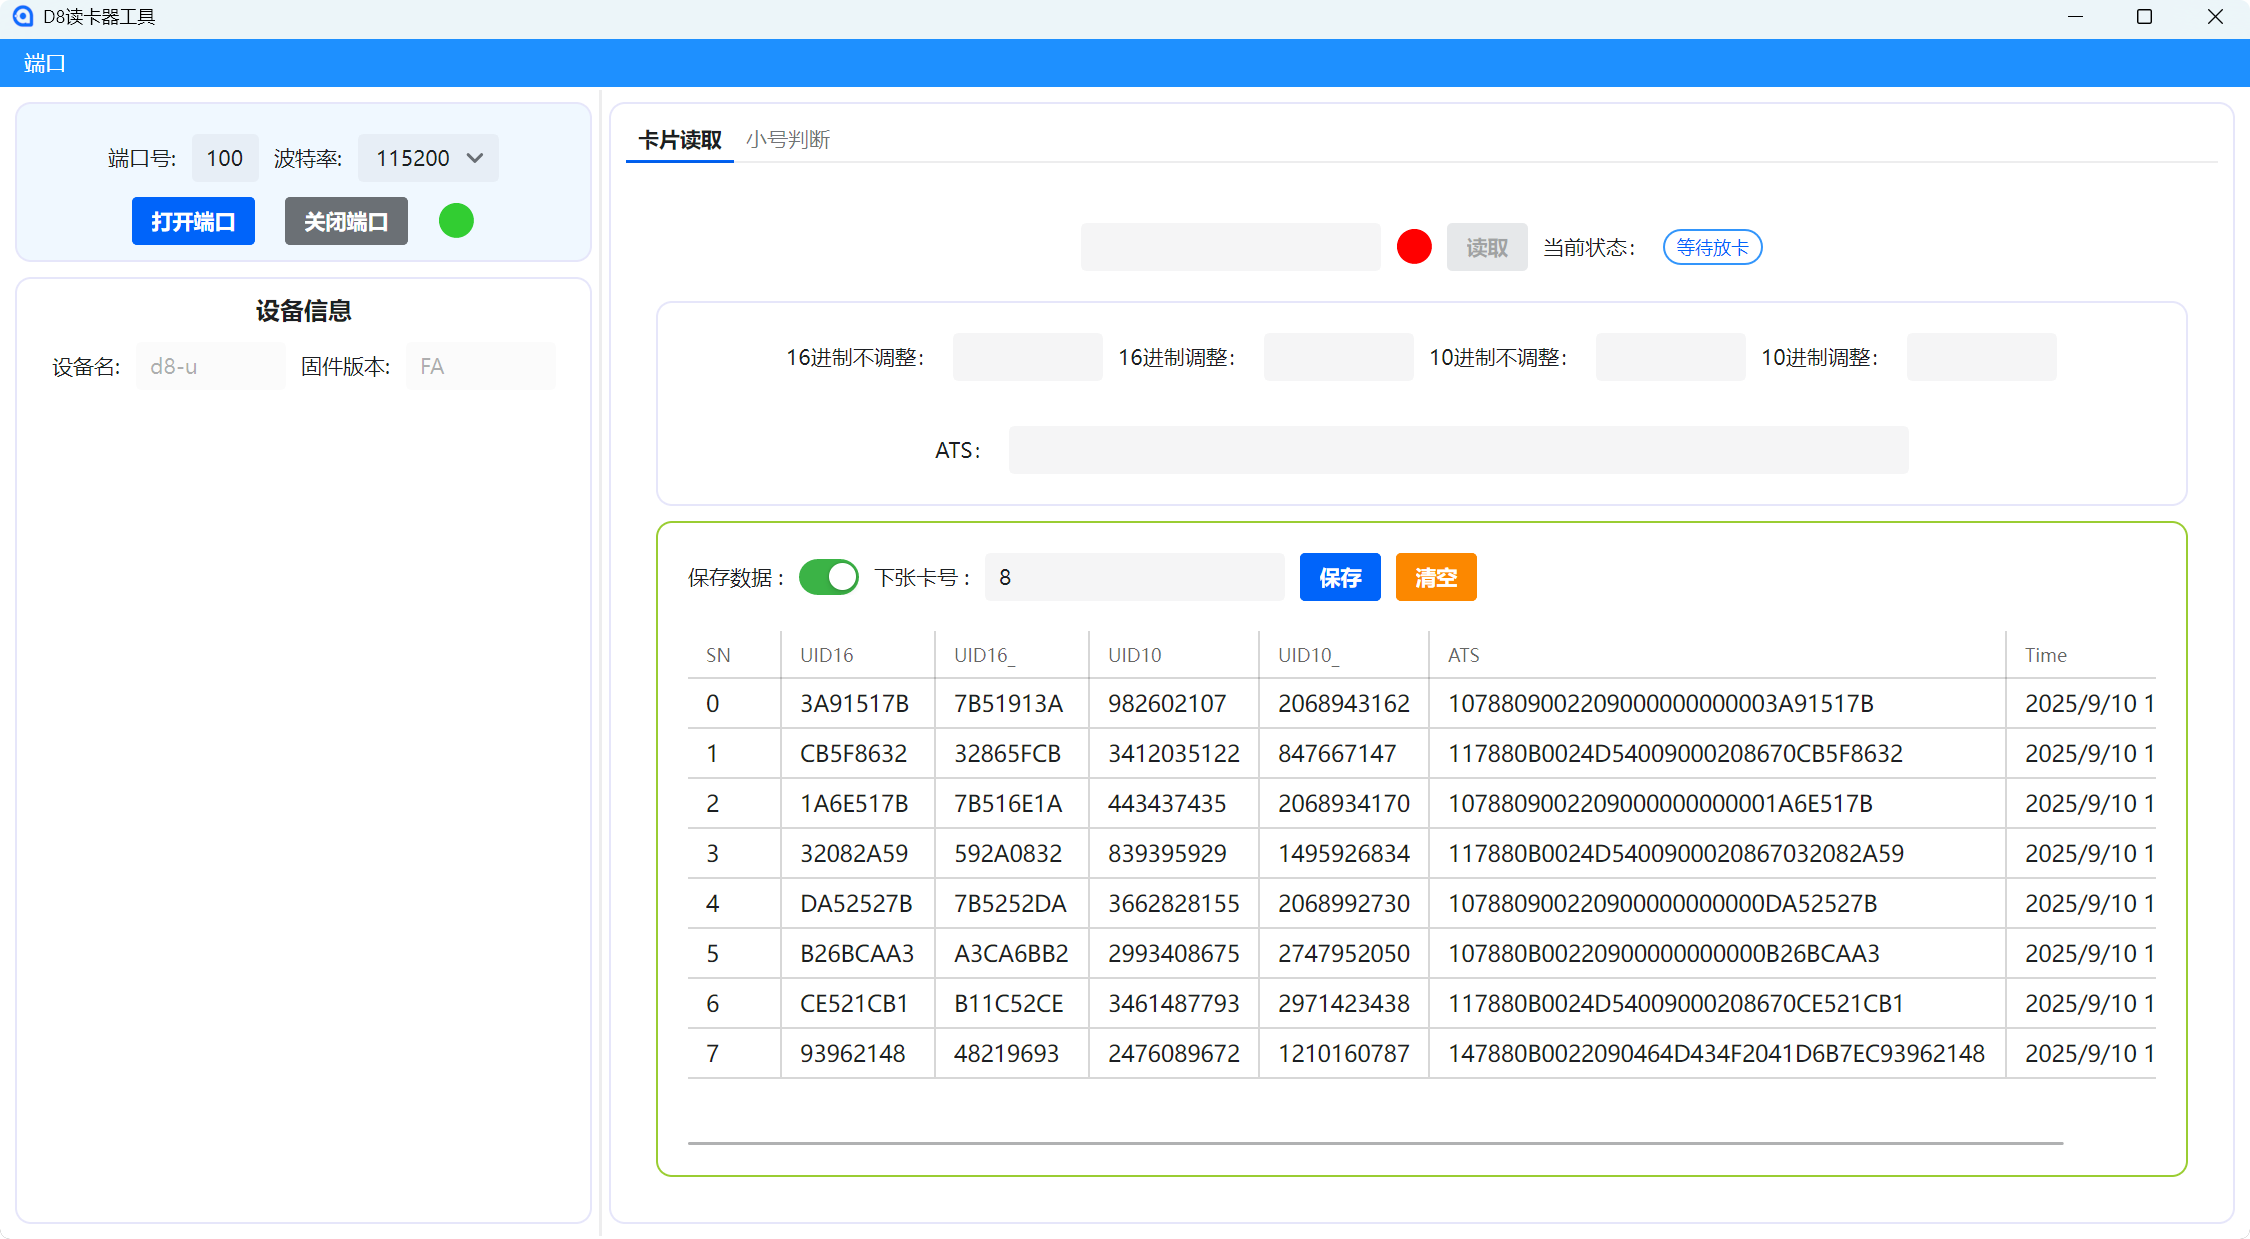
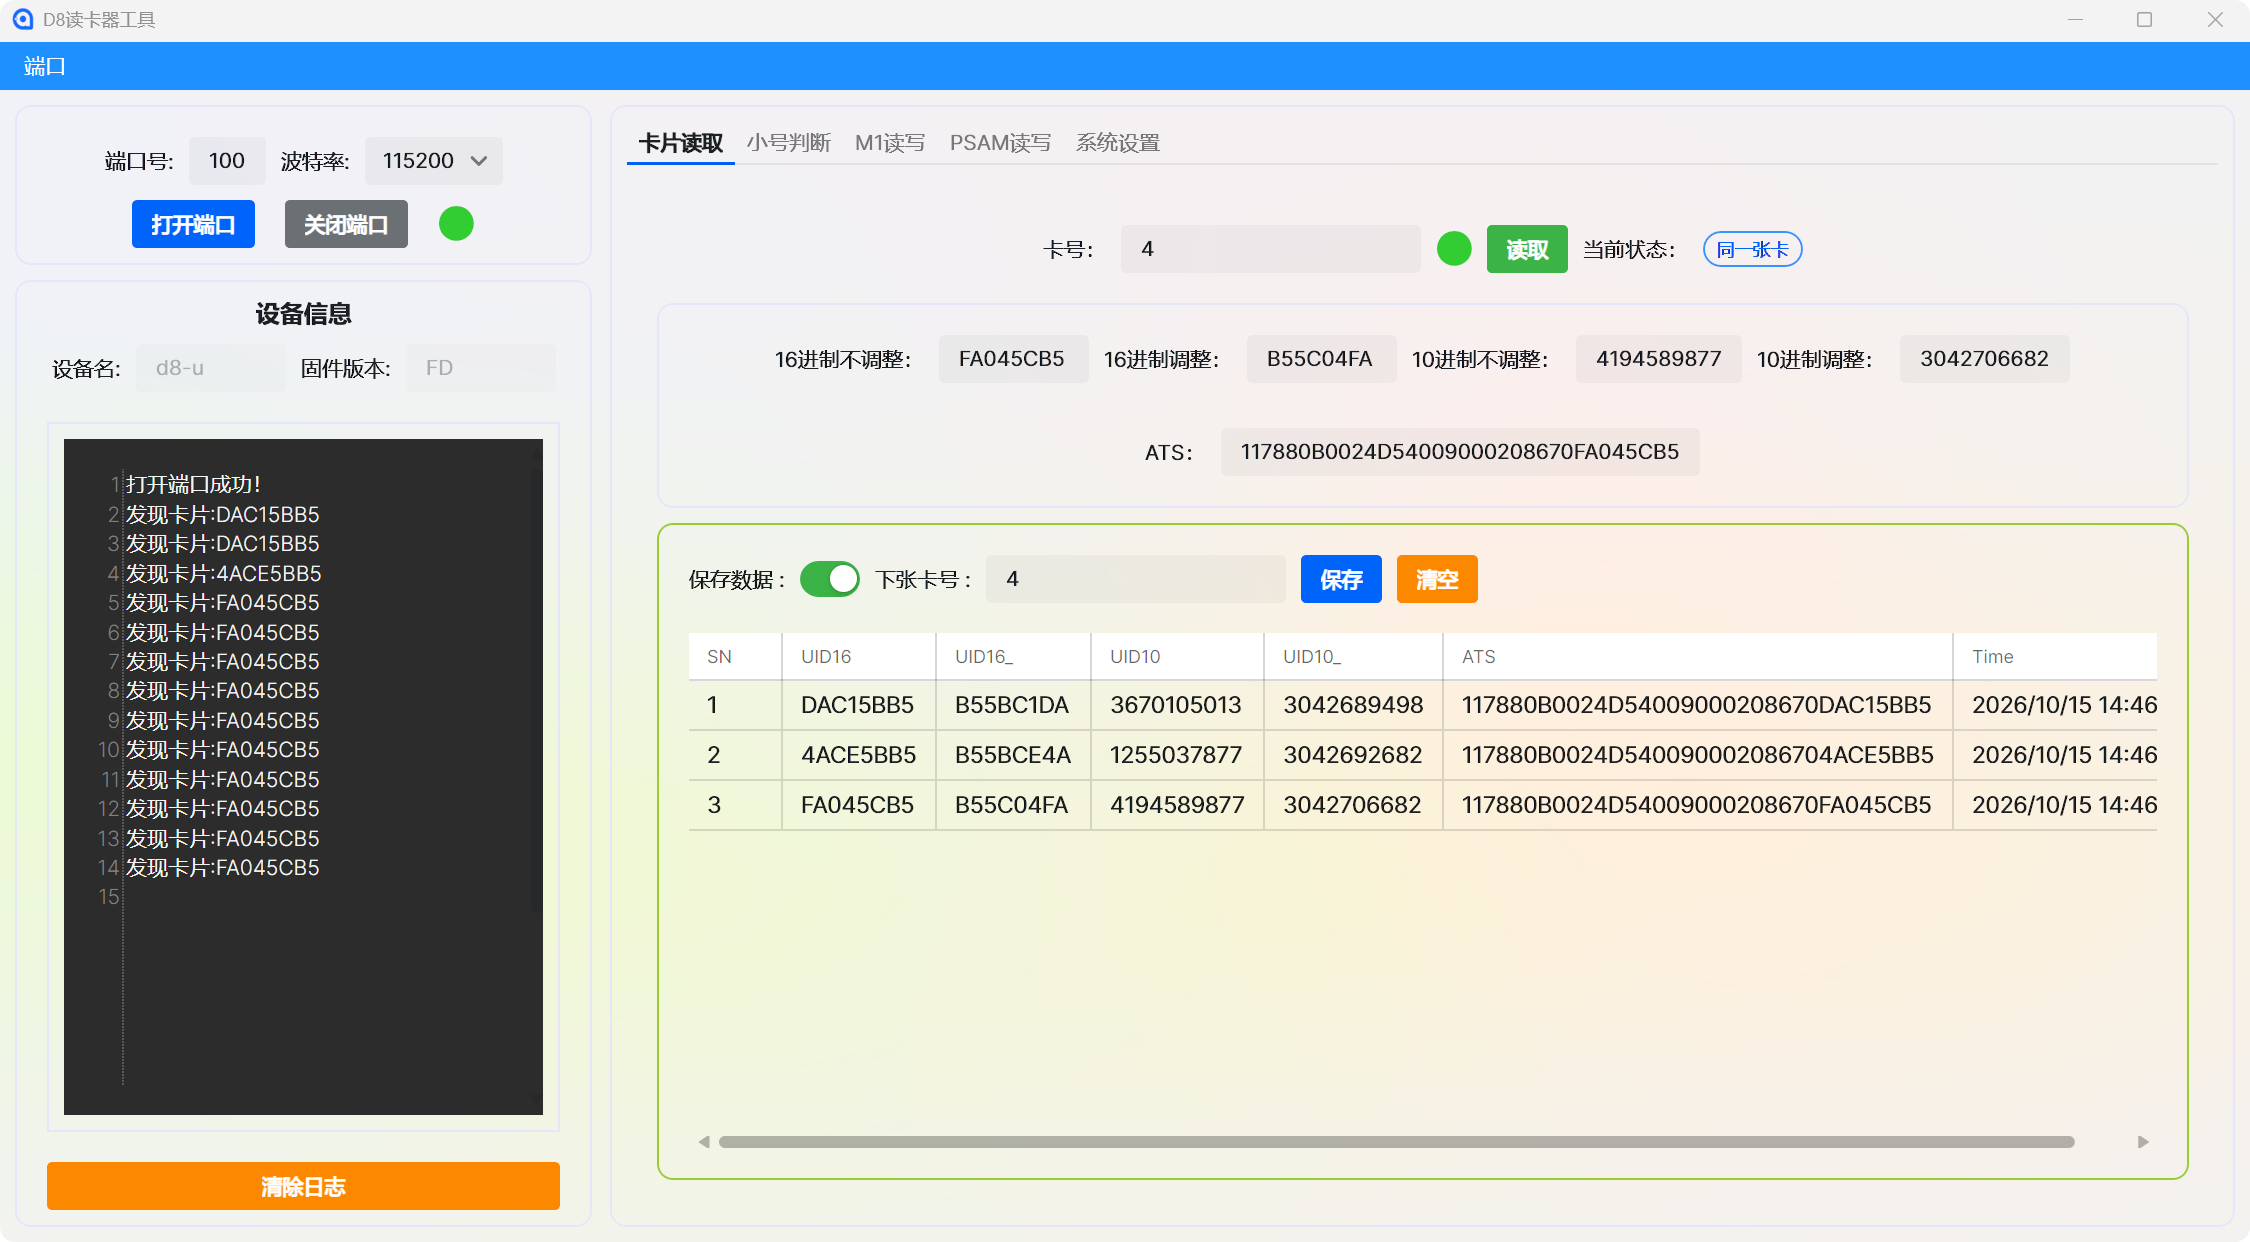
外部认证逻辑修复

diff --git a/ViewModels/CardCheckViewModel.cs b/ViewModels/CardCheckViewModel.cs
@@ -69,7 +69,7 @@ public partial class CardCheckViewModel(CardHelper cardHelper, ContentViewModel 
 
     [ObservableProperty] private bool isAuth;//是否进行外部认证
     [ObservableProperty] private bool authCheck;//外部认证是否通过
-    [ObservableProperty] private string canTry;//可试次数
+    [ObservableProperty] private string tryCount;//可试次数
     [ObservableProperty] private string respon;//返回信息
 
     private ulong UID;//记录UID，避免重复外部认证。
@@ -132,15 +132,15 @@ public partial class CardCheckViewModel(CardHelper cardHelper, ContentViewModel 
             // 开始计时
             var stopwatch = Stopwatch.StartNew();
             FindCard = Brushes.LimeGreen;
-            if (!cardHelper.Reset())
+            bool reset = cardHelper.Reset();
+            ulong CardUid = cardHelper.FindCard();//获取芯片号
+            if (!reset || CardUid == 0)
             {
-                AddLog("复位/寻卡失败");
                 Clear();
                 CardType = "未检测到卡片";
                 await Task.Delay(Settings.SleepTime, token);
                 continue;
             }
-            ulong CardUid = cardHelper.FindCard();//获取芯片号
             
             //获取ATQA
             ATQA = cardHelper.Request();
@@ -183,7 +183,6 @@ public partial class CardCheckViewModel(CardHelper cardHelper, ContentViewModel 
                 ReturnValue = "空";
                 continue;
             }
-
             if (response.EndsWith("9000"))
             {
                 ReturnValue = response;
@@ -195,7 +194,6 @@ public partial class CardCheckViewModel(CardHelper cardHelper, ContentViewModel 
                 //芯片为1208
                 FM1208(ATQA, ATS);
             }
-
             FindCard = Brushes.Red;
             cardHelper.Beep(Settings.Sound);
             Count++;
@@ -263,7 +261,8 @@ public partial class CardCheckViewModel(CardHelper cardHelper, ContentViewModel 
         ATQA = string.Empty;;
         SAK = string.Empty;
         CardCheckType = CardCheckType.Unknown;
-        CanTry = string.Empty;
+        AuthCheck = false;
+        TryCount = string.Empty;
         Respon = string.Empty;
     }
 
@@ -296,14 +295,13 @@ public partial class CardCheckViewModel(CardHelper cardHelper, ContentViewModel 
         byte[] keyBytes = Tools.HexStringToBytes("FFFFFFFFFFFFFFFFFFFFFFFFFFFFFFFF");
         byte[] data = Tools.EncryptEcb(randomBytes, keyBytes);
         string strCommand = "0082000008" + BitConverter.ToString(data).Replace("-", "");
-        AddLog($"指令：{strCommand}");
         string response = cardHelper.APDU(strCommand);
         if (response == "9000")
         {
             AddLog("外部认证成功");
             return true;
         }
-        if (response.Contains("63C")) CanTry = response.Substring(3, 1);
+        if (response.Contains("63C")) TryCount = response.Substring(3, 1);
         else
         {
             AddLog("外部认证返回值:" + response);

diff --git a/README.md b/README.md
@@ -9,14 +9,15 @@
 |  卡片类型判断  | ✔ |
 | M1卡信息读取  | ✔ |
 | M1卡密钥验证  | ✔ |
-| M1卡内容写入  | ❌  |
+| M1卡内容写入  | ✔  |
 
 ## 截图
 ![预览图](./Assets/preview.png)
+![预览图](./Assets/preview2.png)
 
 ## 系统要求
 
-- .Net 9.0 以上
+- .Net 10.0 以上
 - Window 10 以上
 - RAM > 4 GB
 
